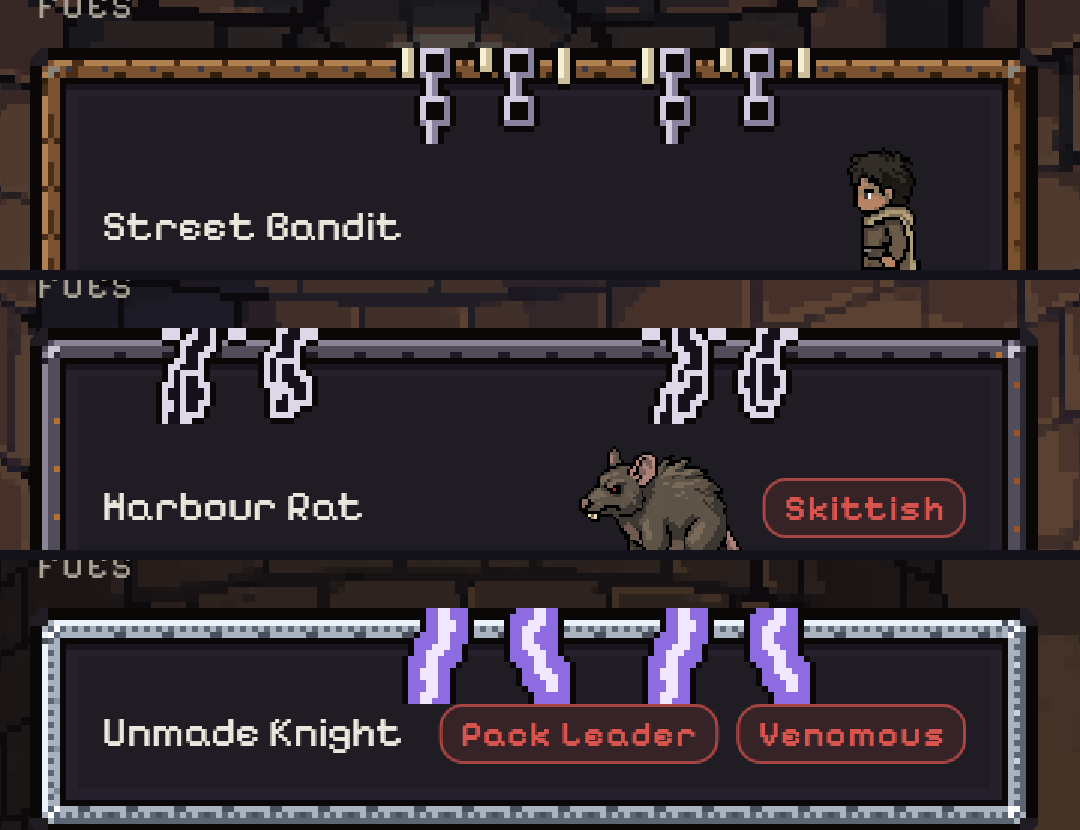
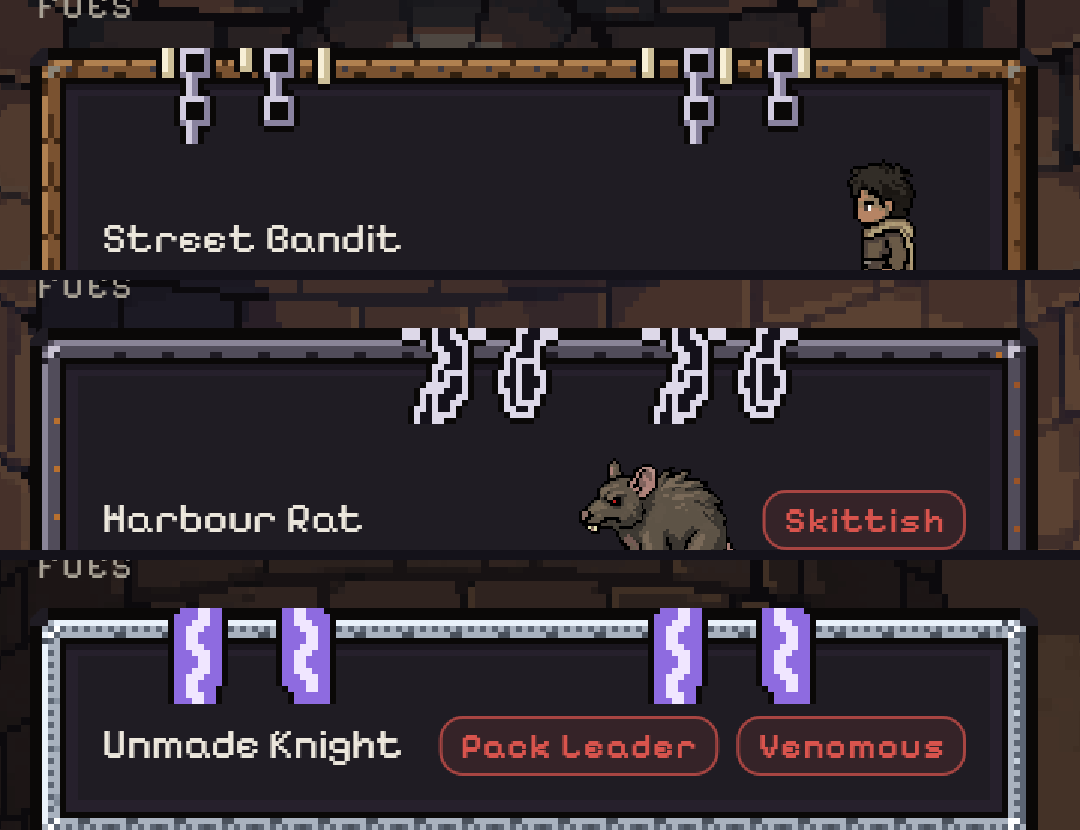
Decorations: +12 px under top pieces so a gap shows on every band; floors re-shot
Claude-Session: https://claude.ai/code/session_019ETFw2Y7wpHSXWG5mmACty

diff --git a/lib/widgets/ink_panel.dart b/lib/widgets/ink_panel.dart
@@ -39,11 +39,11 @@ class InkPanel extends StatelessWidget {
         f != null &&
         FrameImages.ready(f.material, f.env)) {
       final framed = Container(
-        // Top pieces (32 art px tall at 2x) hang below the frame's edge: the
+        // Top pieces (32 px tall at 2x) hang below the frame's edge: the
         // content starts under them, never under a piece.
         padding: padding
             .add(EdgeInsets.all(2.0 * f.compactScale))
-            .add(EdgeInsets.only(top: decor.top > 0 ? 8 : 0)),
+            .add(EdgeInsets.only(top: decor.top > 0 ? 12 : 0)),
         decoration: ShapeDecoration(
           color: scheme.surfaceContainer,
           shape: FrameBorder(
